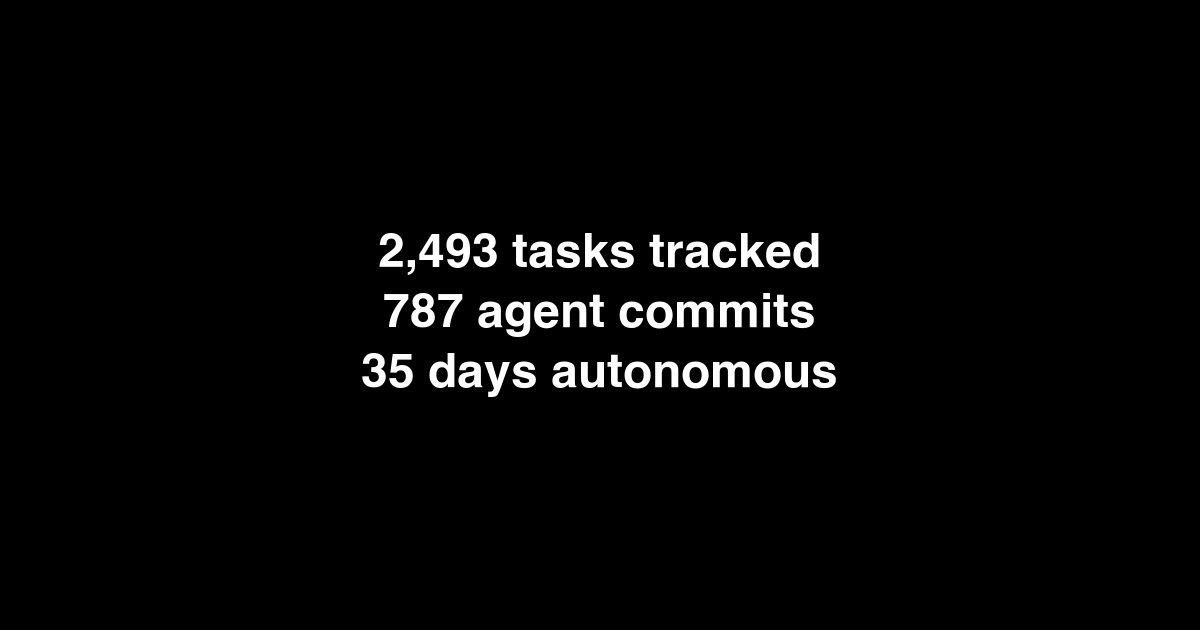
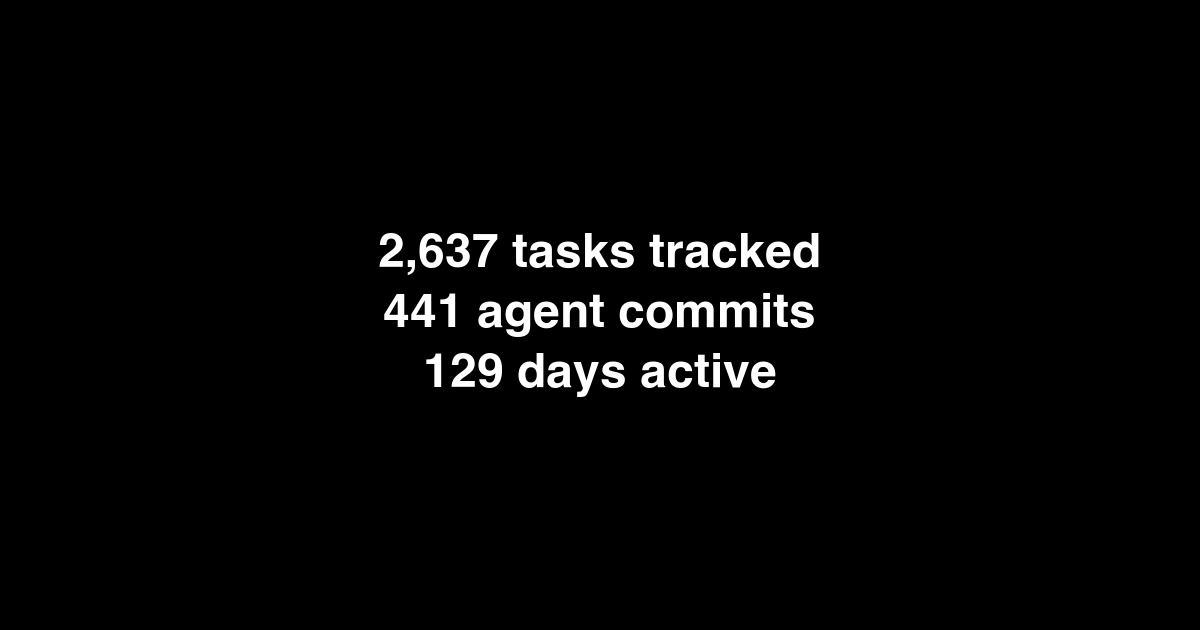
herald(metrics): verified truth
space: i/82bf89f5

Changed region(s): [[0.3083, 0.5429, 0.7092, 0.6333], [0.3392, 0.3619, 0.4317, 0.4222], [0.3083, 0.4524, 0.4008, 0.5127]]

diff --git a/src/main.ts b/src/main.ts
@@ -40,10 +40,10 @@ app.innerHTML = `
   <div class="container">
     <h1>Connect your repo.<br>Swarm runs 24/7.<br>Codebase improves.</h1>
     <p class="metric">
-      <span class="value">35 days</span> runtime <span class="dot">·</span>
-      <span class="value">18 projects</span> <span class="dot">·</span>
-      <span class="value">2,493</span> tasks tracked<br>
-      <span style="font-size: 14px; color: #666;">as of Feb 11, 2026</span>
+      <span class="value">129 days</span> active <span class="dot">·</span>
+      <span class="value">19 projects</span> <span class="dot">·</span>
+      <span class="value">2,637</span> tasks tracked<br>
+      <span style="font-size: 14px; color: #666;">verified Feb 11, 2026</span>
     </p>
     <p class="claim">
       Not a copilot. Not autocomplete.<br>

diff --git a/PRODUCT_HUNT.md b/PRODUCT_HUNT.md
@@ -7,10 +7,10 @@ Autonomous code maintenance while you sleep
 Autonomous swarm that improves your codebase 24/7
 
 ## Description (260 chars max)
-Your codebase improves while you sleep. Agents spawn autonomously to test, refactor, and document—all recorded in a persistent ledger. 35 days runtime. 2,493 tasks tracked. 787 autonomous commits. Not a copilot. A swarm with memory.
+Your codebase improves while you sleep. Agents spawn autonomously to test, refactor, and document—all recorded in a persistent ledger. 129 days active. 2,637 tasks tracked. 441 agent commits. Not a copilot. A swarm with memory.
 
 ## First Comment (maker intro)
-2,493 tasks tracked. 787 commits from agents. 35 days of continuous operation.
+2,637 tasks tracked. 441 commits from agents. 129 days active.
 
 We built an autonomous agent swarm and pointed it at our own codebase. Every task, decision, and insight gets recorded in a persistent ledger. The swarm debugs, refactors, and maintains the system—we focus on architecture and direction.
 
@@ -20,7 +20,7 @@ This isn't autocomplete. It's coordination infrastructure. Agents spawn with dif
 - Stateless agents, stateful swarm (knowledge compounds across spawns)
 - Ledger captures all work (tasks, decisions, insights)
 - Constitutional governance (agents can challenge/veto decisions)
-- Multi-project proven (18 projects)
+- Multi-project proven (19 active projects)
 
 **Beta access:**
 First 10 repos free. OAuth blocked on manual setup, but infrastructure deployed. Join the discussion to reserve a spot.
